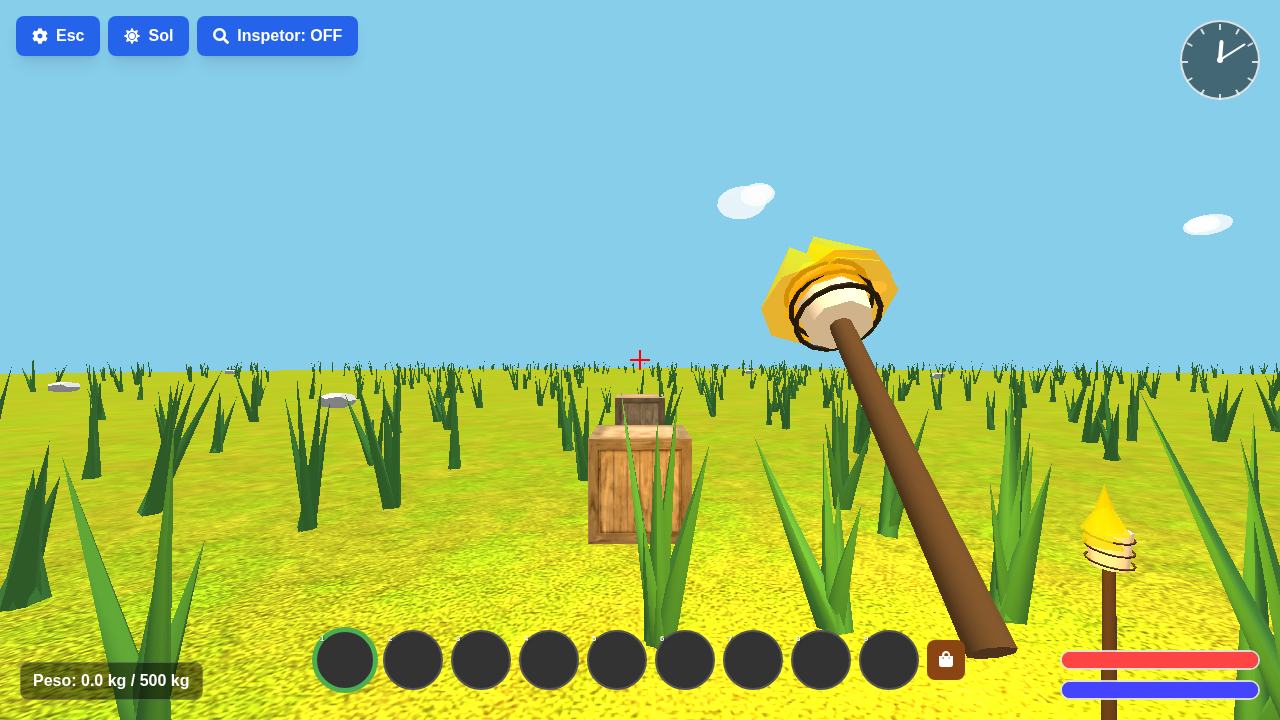
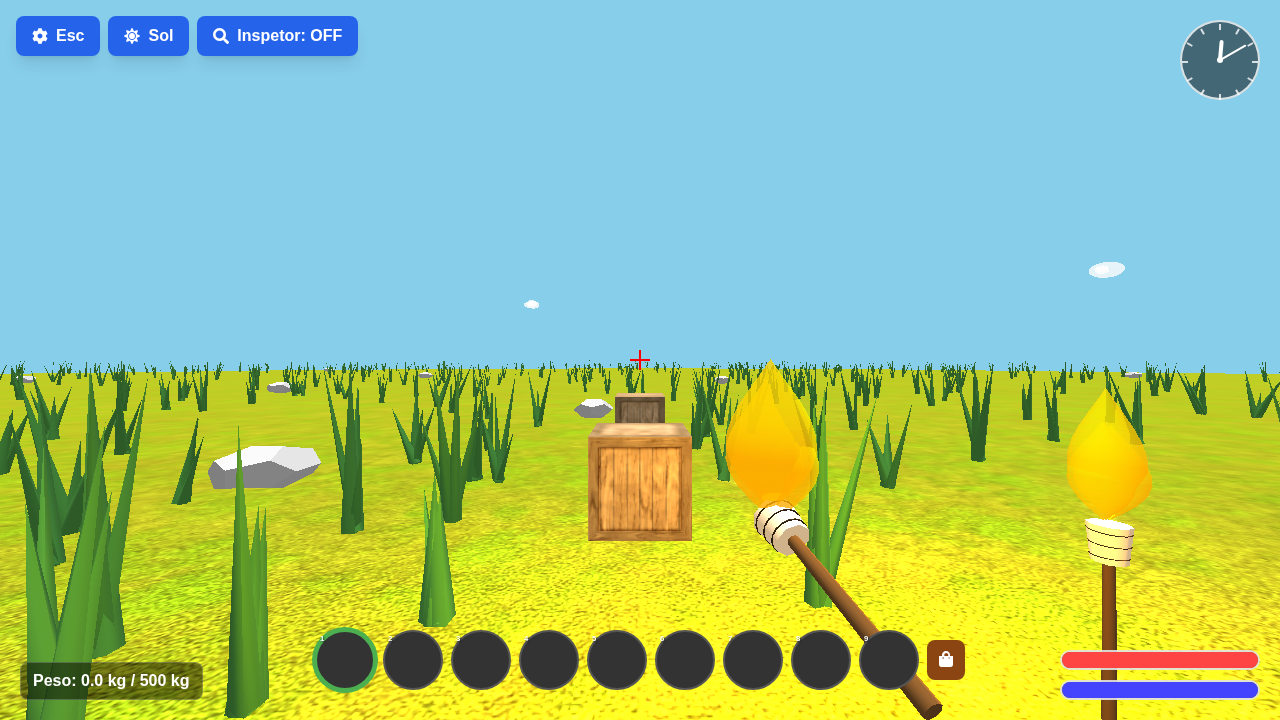
Merge pull request #781 from Armandodecampos/torch-appearance-update-15004611378543155933
Update Torch Appearance and Position

Pull request: Update Torch Appearance and Position
The torch's visual presentation was updated to match a user-provided simulation. 

Key changes:
1. **Held Torch Position/Rotation**: The `heldTorchGroup` in `index.htm` was repositioned from `(0.4, -0.4, -0.8)` to `(0.5, -0.6, -0.8)` and given a multi-axis rotation (`-PI/3`, `-PI/6`, `PI/10`) to create the effect of the torch emerging from the bottom-right corner of the player's view.
2. **Flame Scaling**: The multipliers for the fire meshes in `createTorchModel` were increased. Outer flames increased from `3.0x/2.0x` to `4.5x/3.5x` (width/height), and the inner flame from `1.8x/1.6x` to `2.7x/2.4x`.
3. **Verification**: Changes were verified using a Playwright-based visual check (`verify_torch.js`) and existing automated tests (`tests/torch.spec.js` and `tests/torch_wall.spec.js`), all of which passed.

---
*PR created automatically by Jules for task [15004611378543155933](https://jules.google.com/task/15004611378543155933) started by @user*

diff --git a/index.htm b/index.htm
@@ -3946,8 +3946,8 @@
             for (let i = 0; i < 3; i++) {
                 const fire = new THREE.Mesh(torchFireGeom, torchOrangeFireMat);
                 // Increased scale for visibility
-                const sW = bundleRadius * 3.0;
-                const sH = bundleHeight * 2.0;
+                const sW = bundleRadius * 4.5;
+                const sH = bundleHeight * 3.5;
                 fire.scale.set(sW, sH, sW);
                 fire.userData.baseScale = { x: sW, y: sH, z: sW };
                 fire.position.set((Math.random() - 0.5) * 0.05, bundleHeight * 0.1, (Math.random() - 0.5) * 0.05);
@@ -3956,8 +3956,8 @@
             }
             // Inner flame (Gota shape) - Increased scale
             const innerFire = new THREE.Mesh(torchFireGeom, torchYellowFireMat);
-            const siW = bundleRadius * 1.8;
-            const siH = bundleHeight * 1.6;
+            const siW = bundleRadius * 2.7;
+            const siH = bundleHeight * 2.4;
             innerFire.scale.set(siW, siH, siW);
             innerFire.userData.baseScale = { x: siW, y: siH, z: siW };
             innerFire.position.y = bundleHeight * 0.1;
@@ -4608,10 +4608,12 @@
             heldFireGroup = heldTorchModel.fireGroup;
             heldTorchLight = heldTorchModel.light;
 
-            // Inclina a tocha para frente
-            heldTorchModel.group.rotation.x = -Math.PI / 4;
+            // Inclina a tocha para frente e para o lado (saindo do canto inferior direito)
+            heldTorchModel.group.rotation.x = -Math.PI / 3;
+            heldTorchModel.group.rotation.y = -Math.PI / 6;
+            heldTorchModel.group.rotation.z = Math.PI / 10;
 
-            heldTorchGroup.position.set(0.4, -0.4, -0.8); // Posiciona no canto inferior direito da tela, mais para trás
+            heldTorchGroup.position.set(0.5, -0.6, -0.8); // Posiciona no canto inferior direito da tela, mais para trás
             heldTorchGroup.visible = false;
             camera.add(heldTorchGroup);
 